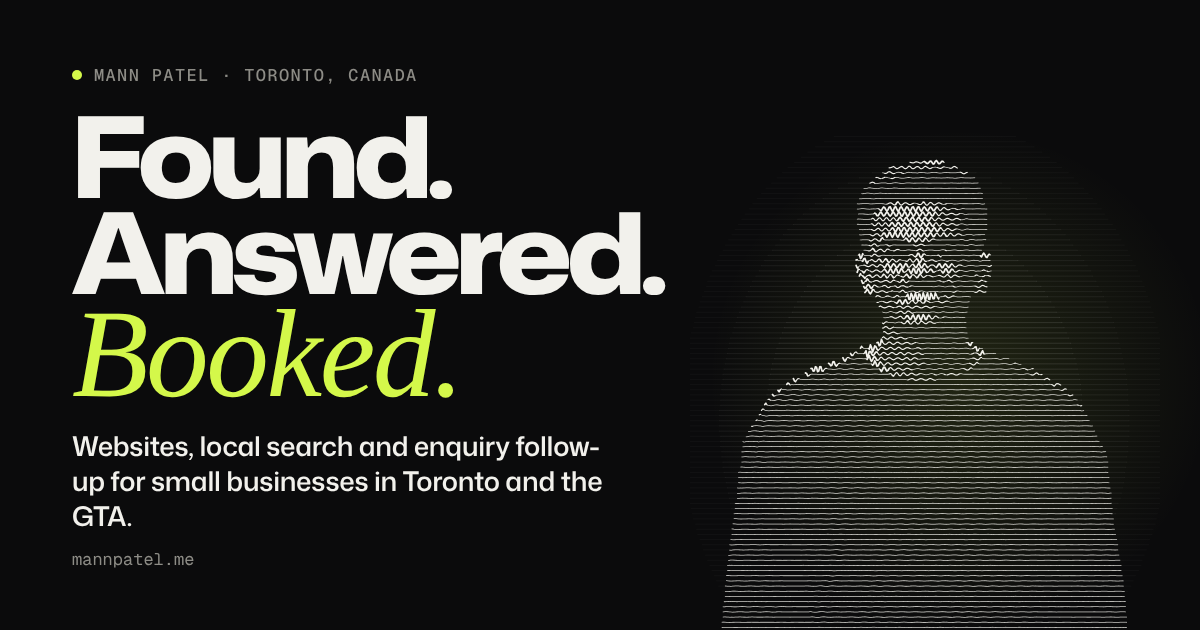
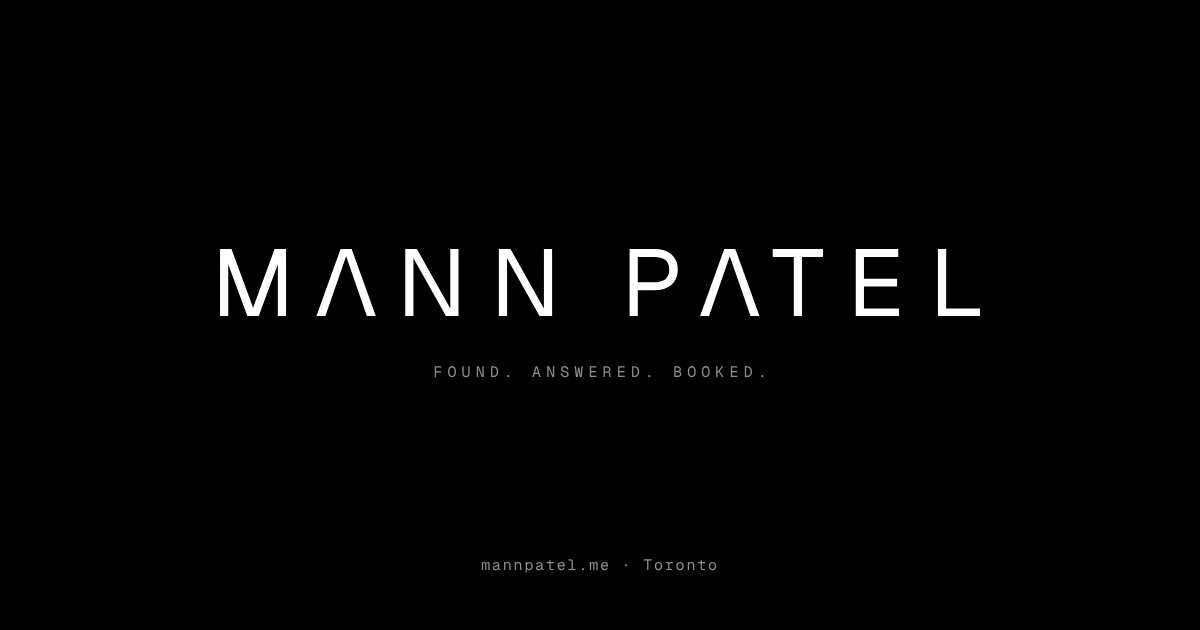
Brand: MΛNN PΛTEL wordmark, lighter headlines, lime kept (#20)
Claude-Session: https://claude.ai/code/session_01NESr55MBhzBAjr5UkJcpZW

diff --git a/src/styles/global.css b/src/styles/global.css
@@ -93,16 +93,16 @@ h1,
 h2,
 h3,
 h4 {
-  font-weight: 680;
-  font-stretch: 108%;
+  font-weight: 600;
+  font-stretch: 100%;
   letter-spacing: var(--track-head);
   line-height: var(--lh-snug);
   text-wrap: balance;
 }
 h1 {
   font-size: var(--fs-h1);
-  font-weight: 720;
-  font-stretch: 110%;
+  font-weight: 620;
+  font-stretch: 100%;
   line-height: 0.95;
   letter-spacing: -0.04em;
 }
@@ -112,8 +112,8 @@ h2 {
 }
 h3 {
   font-size: var(--fs-h3);
-  font-weight: 620;
-  font-stretch: 104%;
+  font-weight: 580;
+  font-stretch: 100%;
   letter-spacing: -0.02em;
 }
 h4 {
@@ -138,8 +138,8 @@ p {
 }
 .display {
   font-size: var(--fs-display);
-  font-weight: 800;
-  font-stretch: 118%;
+  font-weight: 620;
+  font-stretch: 100%;
   line-height: var(--lh-display);
   letter-spacing: var(--track-display);
 }
@@ -378,7 +378,7 @@ p {
   color: var(--btn-fg);
   font-size: 1rem;
   font-weight: 640;
-  font-stretch: 104%;
+  font-stretch: 100%;
   letter-spacing: -0.005em;
   line-height: 1.15;
   text-decoration: none;
@@ -875,7 +875,7 @@ fieldset > legend + * {
   list-style: none;
   font-weight: 600;
   font-size: clamp(1.0625rem, 1rem + 0.35vw, 1.3rem);
-  font-stretch: 104%;
+  font-stretch: 100%;
   letter-spacing: -0.01em;
   line-height: 1.3;
   transition: color var(--t-fast);

diff --git a/README.md b/README.md
@@ -4,7 +4,7 @@ Personal profile and digital-services site for Mann Patel (production domain: **
 
 Built with **Astro 7** (static pages + one server endpoint for the project-brief form), vanilla TypeScript islands, and self-hosted OFL fonts. No CMS, no client framework, no tracking unless configured.
 
-**Design: "Signal", as a compact editorial portfolio (round 7, 8 Nov 2026).** Dark, with one lime accent and Mann's portrait drawn as a live signal. Real work comes straight after a compact hero (both projects, honestly labelled), then three service summaries, the free check, how I work and questions. Enquiries: a 3-step project brief and a 1-minute free check, with honest sending states and an email/copy fallback while direct delivery is off. Case studies lead with a summary and show dated, real test evidence. The system is in [`DESIGN.md`](DESIGN.md); round 7 (audit response, verification, remaining blocker, deploy and rollback) is in [`docs/14-round-7-editorial.md`](docs/14-round-7-editorial.md).
+**Design: "Signal", as a compact editorial portfolio (round 7, 8 Nov 2026), with the MΛNN PΛTEL logo (10 Nov 2026).** Dark, with one lime accent and Mann's portrait drawn as a live signal. Real work comes straight after a compact hero (both projects, honestly labelled), then three service summaries, the free check, how I work and questions. Enquiries: a 3-step project brief and a 1-minute free check, with honest sending states and an email/copy fallback while direct delivery is off. Case studies lead with a summary and show dated, real test evidence. The system is in [`DESIGN.md`](DESIGN.md); round 7 (audit response, verification, remaining blocker, deploy and rollback) is in [`docs/14-round-7-editorial.md`](docs/14-round-7-editorial.md).
 
 > **Status: content confirmed (31 Oct 2026).** All "To confirm" items are answered. Production deploys still run the pre-launch check, and the form's inbox address (`ENQUIRY_TO_EMAIL`) and phone number (`PUBLIC_CONTACT_PHONE`) are added in Cloudflare. See [`docs/OWNER-INPUTS.md`](docs/OWNER-INPUTS.md).
 
@@ -82,10 +82,11 @@ Cloudflare Workers, connected to GitHub: build command `npm run build:cloudflare
 | [`DESIGN.md`](DESIGN.md) | Round 5 design system "Signal": colour roles and contrast, type, spacing, components, imagery, motion |
 | [`docs/12-round-5-signal.md`](docs/12-round-5-signal.md) | Round 5: research, direction, every new feature, verification (tests, axe, Lighthouse), owner notes |
 | [`docs/13-round-6-live-signal.md`](docs/13-round-6-live-signal.md) | Round 6: the "Live Signal" effects layer, bugs fixed (incl. the local Cloudflare build), Lighthouse 99–100 |
+| [`docs/19-brand-black-and-white.md`](docs/19-brand-black-and-white.md) | Logo update: MΛNN PΛTEL wordmark, favicons and sharing image (colours unchanged) |
 | [`docs/14-round-7-editorial.md`](docs/14-round-7-editorial.md) | Round 7: the 8 Nov audit applied (work first, free-check path, honest delivery states, case-study evidence, package comparison), verification, the delivery blocker, deploy and rollback |
 | [`THIRD-PARTY-NOTICES.md`](THIRD-PARTY-NOTICES.md) | What the site uses that others made, and on what terms |
 | [`docs/OWNER-INPUTS.md`](docs/OWNER-INPUTS.md) | Questions and owner actions |
 
 ## Licences
 
-Fonts: Mona Sans (served as the subset "Signal Sans", renamed as its Reserved Font Name requires), Instrument Serif and Geist Mono, SIL Open Font License 1.1 (`public/fonts/LICENSES.txt`). The earlier wordmark files in `public/brand/` are outlined from Fraunces (SIL OFL 1.1). The portrait is Mann's own photo. Nest & Rest captures are screenshots of Mann's own website, nestnrestcleaning.com (live site, 31 Oct and 8 Nov 2026).
+Fonts: Mona Sans (served as the subset "Signal Sans", renamed as its Reserved Font Name requires), Instrument Serif and Geist Mono, SIL Open Font License 1.1 (`public/fonts/LICENSES.txt`). The MΛNN PΛTEL wordmark and monogram in `public/brand/` are outlined from Geist (Vercel, SIL OFL 1.1). The portrait is Mann's own photo. Nest & Rest captures are screenshots of Mann's own website, nestnrestcleaning.com (live site, 31 Oct and 8 Nov 2026).

diff --git a/docs/19-brand-black-and-white.md b/docs/19-brand-black-and-white.md
@@ -1,0 +1,41 @@
+# Logo update: MΛNN PΛTEL (10 Nov 2026)
+
+Mann chose a new wordmark-only logo: **MΛNN PΛTEL**, his name in widely spaced capitals with the
+two A's drawn without crossbars, in black and white. This round puts it on the site without changing
+layout, motion, copy or colour. Headlines were made lighter so they sit with the logo (below).
+
+A first pass also turned the whole site black and white; Mann asked to bring the colour back, so the
+lime "Signal" palette stays exactly as it was. The logo itself is drawn in the text colour.
+
+## What changed
+
+| Area | Before | Now | Files |
+| --- | --- | --- | --- |
+| Header logo | Live text "Mann Patel" (Signal Sans, letters widen on hover) + lime dot | Outlined MΛNN PΛTEL wordmark, 13–14 px tall, dims slightly on hover; the link keeps its accessible name | `src/components/ui/Wordmark.astro`, `src/components/Header.astro` |
+| Favicon | Ink tile, M and lime dot | Black tile with a white Geist M | `public/favicon.svg`, `favicon-32.png`, `apple-touch-icon.png` |
+| Default sharing image | Lime "Signal" card with the line portrait | Black card: the wordmark, "Found. Answered. Booked." and mannpatel.me (case-study cards unchanged) | `scripts/make-images.mjs`, `public/og/default.png` |
+| Headline type | Mona Sans 720–800, expanded 104–125%, hero words widen to 125% / 900 on hover | Mona Sans 580–620 at normal width (100%); hover widens to 108% / 700. Body text, mono labels and serif accents unchanged | `global.css` (h1–h4, `.display`, `.btn`), `Hero.astro`, and the title styles in 16 components and pages |
+| Brand files | Fraunces wordmarks (5 files) | `mann-patel-wordmark.svg` (white), `mann-patel-wordmark-dark.svg` (black), `mann-patel-monogram.svg` | `public/brand/` |
+
+Not changed: body text, labels and serif accents; colours (tokens, effects, WebGL), the case-study sharing cards, the owner notification
+email, the footer's kinetic name and the 404 mark.
+
+## The wordmark
+
+Geist Regular capitals (Vercel, SIL OFL 1.1), +26% letter spacing, then optical pair adjustments
+(M–Λ and Λ–N −4.5%, P–Λ −3%, Λ–T −6.5%, T–E +1%) and a tighter word space, so the slanted letters
+sit as evenly as the straight ones. Shaped with HarfBuzz, outlined with fontTools, optimised with
+SVGO. The full kit (vector and PNG logos, favicons, avatar, banners, sharing image, usage rules) was
+delivered to Mann separately as `mannpatel-brand-kit.zip`.
+
+## Verification
+
+- `npm run build`, `npx astro check` (0 errors) and `npm test` (64 unit tests) pass.
+- `npm run test:e2e`: 111 of 111 pass, including axe accessibility, layout at 320–1440 px and 200% text.
+  The first run caught the header scrolling sideways at 320 px; the logo now scales from 11 px tall at
+  320 px to 13 px from about 390 px (`clamp()` in `Header.astro`).
+- Screenshots checked at 1440×900 and 390×844 (home, services): the logo shows on both, no overlaps.
+
+## Rollback
+
+Revert the merge commit of this branch; the previous text wordmark, favicon and sharing image return.

diff --git a/DESIGN.md b/DESIGN.md
@@ -1,5 +1,12 @@
 # DESIGN.md · "Signal" (round 5, Nov 2026), compact editorial portfolio (round 7)
 
+> **Logo update (10 Nov 2026): MΛNN PΛTEL.** The header logo is the outlined MΛNN PΛTEL wordmark
+> (`components/ui/Wordmark.astro`, files in `public/brand/`); the favicon is a white M on black.
+> To sit with the lighter logo, headlines are now semi-bold at normal width (weights 580–620, `font-stretch`
+> 100%, hover widening kept but softer) instead of heavy and expanded. Colours, layout and motion are
+> unchanged: the lime accent stays. Details:
+> [`docs/19-brand-black-and-white.md`](docs/19-brand-black-and-white.md).
+
 The design system for mannpatel.me. Every page uses these tokens through the CSS variables in
 `src/styles/tokens.css`; components never use raw colours or one-off sizes.
 
@@ -59,7 +66,7 @@ Self-hosted, SIL OFL 1.1, `font-display: swap`, metric-adjusted fallbacks.
 
 | Token | Size (fluid) | Line height | Weight · width | Use |
 | --- | --- | --- | --- | --- |
-| `--fs-display` | 3.4 → 10.5rem | 0.86 | 800 · 112–125 | Hero words, footer name |
+| `--fs-display` | 3.4 → 10.5rem | 0.86 | 620 · 100 (was 800 · 112–125 before 10 Nov 2026) | Hero words, footer name |
 | `--fs-h1` | 2.6 → 6rem | 0.95 | 720 · 110 | Page titles |
 | `--fs-h2` | 2 → 4rem | 1.0 | 680 · 108 | Section titles |
 | `--fs-h3` | 1.35 → 1.9rem | 1.15 | 620 · 104 | Item titles |

diff --git a/THIRD-PARTY-NOTICES.md b/THIRD-PARTY-NOTICES.md
@@ -13,7 +13,7 @@ What this website uses that was made by others, and on what terms. Checked 8 Nov
 | Mona Sans, served as **Signal Sans** | Fontsource latin subset, cut further by `scripts/subset-fonts.py` | SIL OFL 1.1 | A Modified Version; renamed because “Mona” is a Reserved Font Name. Notice and licence: `public/fonts/LICENSES.txt` |
 | Instrument Serif Italic | Fontsource latin subset, cut further | SIL OFL 1.1 | `public/fonts/LICENSES.txt` |
 | Geist Mono | Fontsource latin subset, cut further | SIL OFL 1.1 | `public/fonts/LICENSES.txt` |
-| Fraunces (outlines in older wordmark files in `public/brand/`) | Fraunces project | SIL OFL 1.1 | `public/fonts/LICENSES.txt` |
+| Geist (outlines in the MΛNN PΛTEL wordmark and monogram: `public/brand/`, `src/components/ui/Wordmark.astro`, `public/favicon.svg`) | Vercel, vercel/geist-font | SIL OFL 1.1 | `public/fonts/LICENSES.txt` |
 
 Everything else on the site (layouts, components, styles, the signal-line portrait, the WebGL dot
 field, the forms and their scripts) is original code in this repository.
